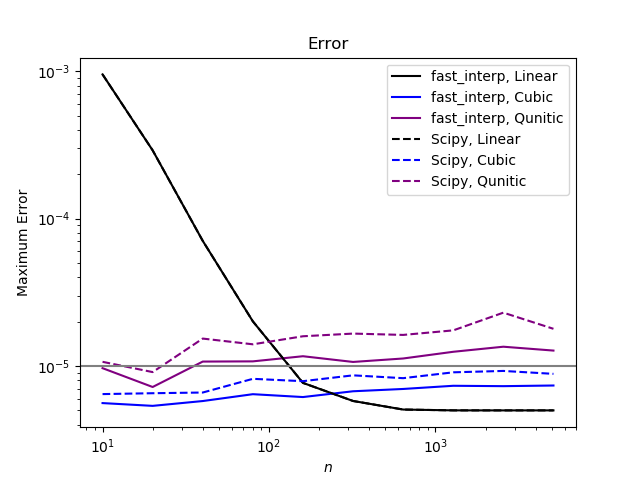
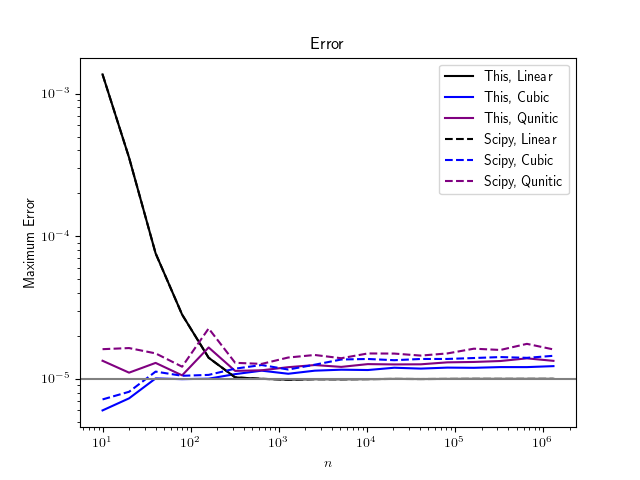
retouched stability

diff --git a/examples/test1d.py b/examples/test1d.py
@@ -24,7 +24,7 @@ sp_setup_time = np.zeros([ntest.shape[0], 3], dtype=float)
 my_eval_time = np.zeros([ntest.shape[0], 3], dtype=float)
 sp_eval_time = np.zeros([ntest.shape[0], 3], dtype=float)
 
-random_noise_size = 0.0
+random_noise_size = 1.0e-5
 
 for ki, k in enumerate(ktest):
 	print('--- Testing for k =', k, '---')
@@ -38,9 +38,9 @@ for ki, k in enumerate(ktest):
 		test_x = (x + np.random.rand(*x.shape)*h)[:-1]
 
 		def test_function(x):
-		    return np.exp(x)*np.cos(370*x) + x**2/(1+x)
+		    return np.exp(x)*np.cos(x) + x**2/(1+x)
 
-		f = test_function(x) + (np.random.rand(*x.shape)-0.5)*random_noise_size
+		f = test_function(x) + 2*(np.random.rand(*x.shape)-0.5)*random_noise_size
 		fa = test_function(test_x)
 
 		# run once to compile numba functions
@@ -73,6 +73,8 @@ ax.plot(ntest, my_errors[:,2], color='purple', label='This, Qunitic')
 ax.plot(ntest, sp_errors[:,0], color='black',  linestyle='--', label='Scipy, Linear')
 ax.plot(ntest, sp_errors[:,1], color='blue',   linestyle='--', label='Scipy, Cubic')
 ax.plot(ntest, sp_errors[:,2], color='purple', linestyle='--', label='Scipy, Qunitic')
+if random_noise_size != 0.0:
+	ax.axhline(random_noise_size, color='gray')
 ax.set_xlabel(r'$n$')
 ax.set_ylabel('Maximum Error')
 ax.set_xscale('log')

diff --git a/examples/test2d.py b/examples/test2d.py
@@ -41,7 +41,7 @@ for ki, k in enumerate(ktest):
 		yo += np.random.rand(*yo.shape)*h
 
 		test_function = lambda x, y: np.exp(x)*np.cos(y) + x*y**3/(1 + x + y)
-		f = test_function(x, y) + (np.random.rand(*x.shape)-0.5)*random_noise_size
+		f = test_function(x, y) + 2*(np.random.rand(*x.shape)-0.5)*random_noise_size
 		fa = test_function(xo, yo)
 
 		# run once to compile numba functions

diff --git a/README.md b/README.md
@@ -50,7 +50,7 @@ In terms of error, the algorithm scales in the same way as the scipy.interpolate
 
 ![Solution](fast_interp_error.png?raw=true "Title")
 
-A final consideration is numerical stability. In the following plot, I show a test of interpolation accuracy when some random noise is added to the function that is being interpolated. The gray line shows the level of noise that was added; even for k=5 the algorithm is stable (and for all k, more stable than the scipy.interpolate) functions:
+A final consideration is numerical stability. In the following plot, I show a test of interpolation accuracy when some random noise is added to the function that is being interpolated. This test is done in 1D, so I can go to enormously large n to really push the bounds of stability. The gray line shows the level of noise that was added; even for k=5 the algorithm is stable for all n (and for all k, more stable than the scipy.interpolate) functions:
 
 ![Solution](fast_interp_stability.png?raw=true "Title")
 
